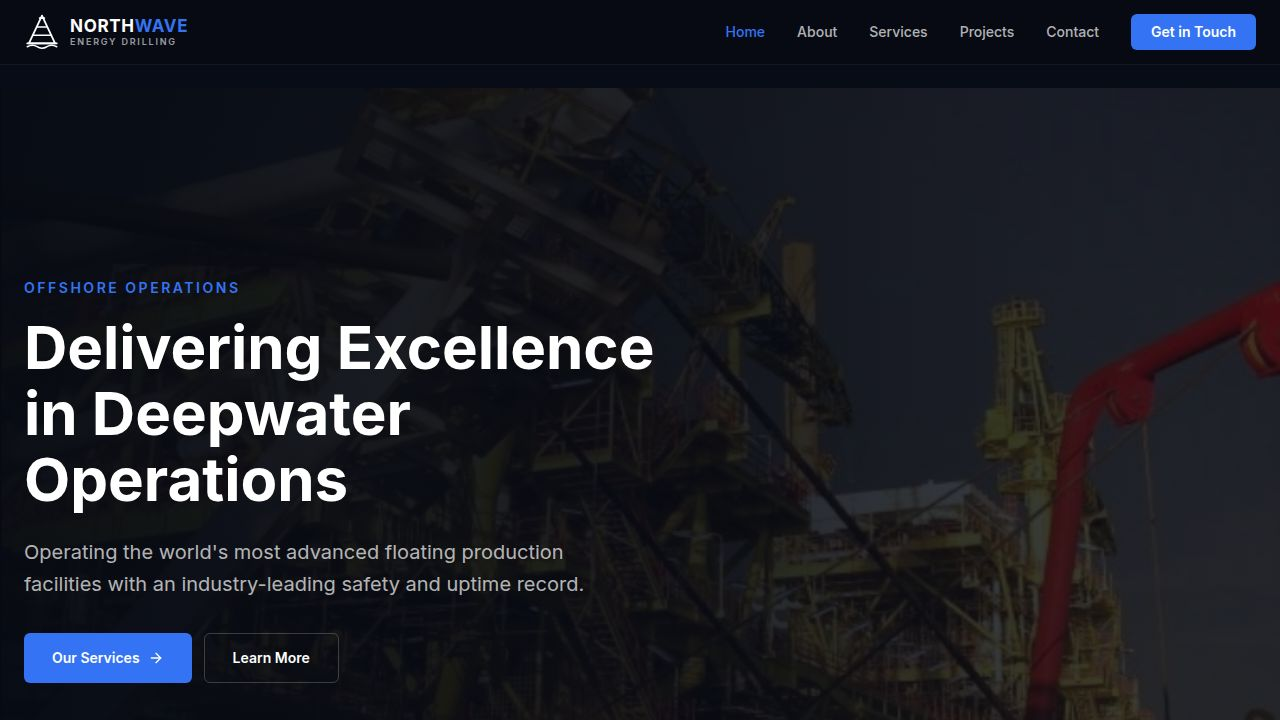
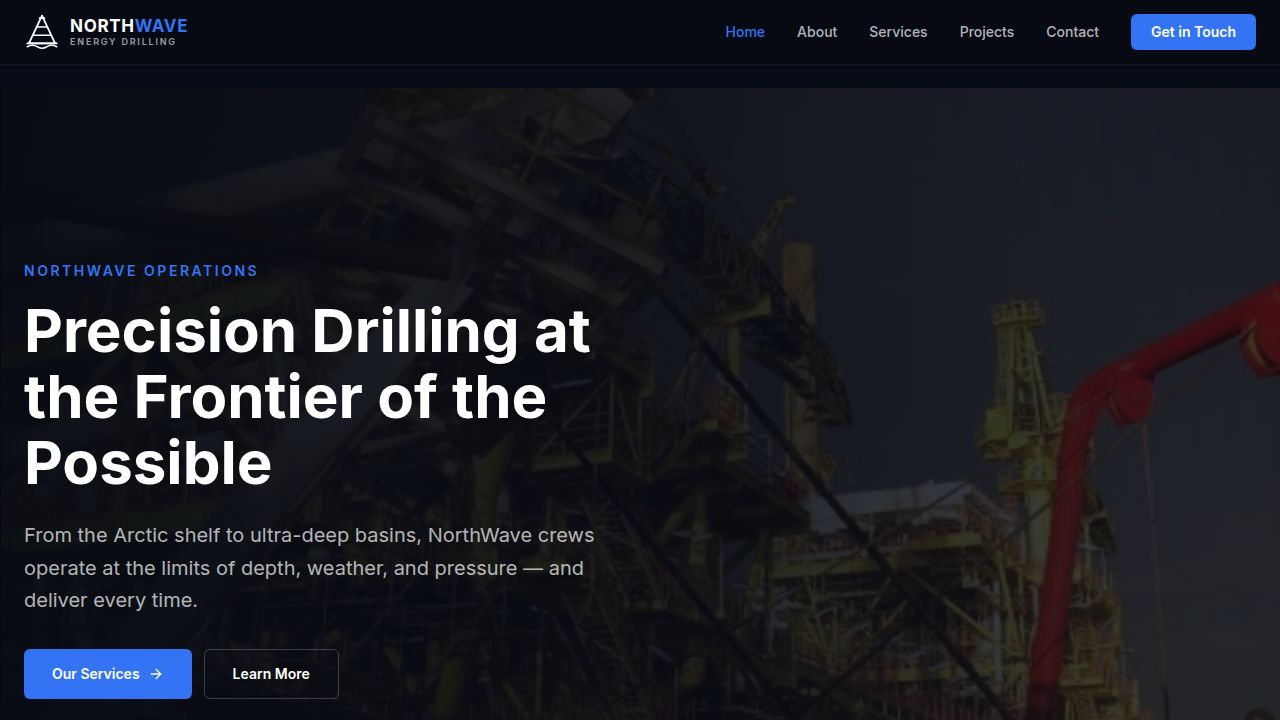
Add Playwright E2E tests for contact form and admin login (Task #13)
## What was done
Added committed Playwright test specs that verify the three critical user
flows still work correctly after the visual redesign:

### New files
- playwright.config.ts — workspace-root config; baseURL defaults to
  REPLIT_DEV_DOMAIN (proxy-routed) so API calls work correctly
- e2e/contact-form.spec.ts — fills and submits contact form, asserts
  "Message Sent" toast appears (data-testid selectors throughout)
- e2e/admin-login.spec.ts — correct credentials → redirect to /admin/dashboard;
  wrong credentials → "Auth Failed" error toast, stays on /admin

### package.json changes
- Added @user/test ^1.61.1 as devDependency
- Added "test:e2e" script (uses system Chromium via PLAYWRIGHT_CHROMIUM_EXECUTABLE_PATH)

## Bug found and fixed during testing
The contacts table did not exist in the database (PostgreSQL error 42P01).
Fixed by running `pnpm run push-force` in lib/db to apply the Drizzle schema.
The redesign itself did not break any of the tested flows.

## Test run results
All 3 tests pass:
- contact form submits successfully and shows success toast ✅
- admin login with correct credentials redirects to dashboard ✅
- admin login with wrong credentials shows error toast ✅

## Environment notes
- Playwright's bundled Chromium shell fails on Replit NixOS (missing shared libs);
  system Chromium (installed via Nix) is used instead via executablePath config
- Tests are run via the Replit dev domain so /api/* calls route through the proxy
[…]

Changed region(s): [[0.0, 0.3667, 0.5312, 0.7028], [0.0, 0.7333, 0.4688, 0.9778], [0.1875, 0.8861, 0.25, 0.9472]]

diff --git a/playwright.config.ts b/playwright.config.ts
@@ -1,0 +1,32 @@
+import { defineConfig, devices } from "@playwright/test";
+
+const baseURL =
+  process.env.BASE_URL ||
+  (process.env.REPLIT_DEV_DOMAIN
+    ? `https://${process.env.REPLIT_DEV_DOMAIN}`
+    : "http://localhost:5173");
+
+export default defineConfig({
+  testDir: "./e2e",
+  fullyParallel: false,
+  retries: 1,
+  timeout: 30000,
+  use: {
+    baseURL,
+    headless: true,
+    screenshot: "only-on-failure",
+    video: "off",
+  },
+  projects: [
+    {
+      name: "chromium",
+      use: {
+        ...devices["Desktop Chrome"],
+        launchOptions: {
+          executablePath:
+            process.env.PLAYWRIGHT_CHROMIUM_EXECUTABLE_PATH || undefined,
+        },
+      },
+    },
+  ],
+});

diff --git a/e2e/admin-login.spec.ts b/e2e/admin-login.spec.ts
@@ -1,0 +1,30 @@
+import { test, expect } from "@playwright/test";
+
+test("admin login with correct credentials redirects to dashboard", async ({
+  page,
+}) => {
+  await page.goto("/admin");
+
+  await page.getByTestId("input-email").fill("[email redacted]");
+  await page.getByTestId("input-password").fill("Northwave2026!!");
+
+  await page.getByTestId("button-login").click();
+
+  await expect(page).toHaveURL(/\/admin\/dashboard/, { timeout: 10000 });
+});
+
+test("admin login with wrong credentials shows error toast", async ({
+  page,
+}) => {
+  await page.goto("/admin");
+
+  await page.getByTestId("input-email").fill("[email redacted]");
+  await page.getByTestId("input-password").fill("wrongpassword123");
+
+  await page.getByTestId("button-login").click();
+
+  await expect(page.getByText("Auth Failed").first()).toBeVisible({
+    timeout: 10000,
+  });
+  await expect(page).toHaveURL(/\/admin$/, { timeout: 3000 });
+});

diff --git a/e2e/contact-form.spec.ts b/e2e/contact-form.spec.ts
@@ -1,0 +1,22 @@
+import { test, expect } from "@playwright/test";
+
+test("contact form submits successfully and shows success toast", async ({
+  page,
+}) => {
+  await page.goto("/contact");
+
+  await page.getByTestId("input-name").fill("Jane Testington");
+  await page.getByTestId("input-email").fill("[email redacted]");
+  await page.getByTestId("input-subject").fill("Equipment Inquiry Test");
+  await page
+    .getByTestId("input-message")
+    .fill(
+      "This is an automated test message for offshore equipment leasing inquiry.",
+    );
+
+  await page.getByTestId("button-submit-contact").click();
+
+  await expect(page.getByText("Message Sent").first()).toBeVisible({
+    timeout: 10000,
+  });
+});